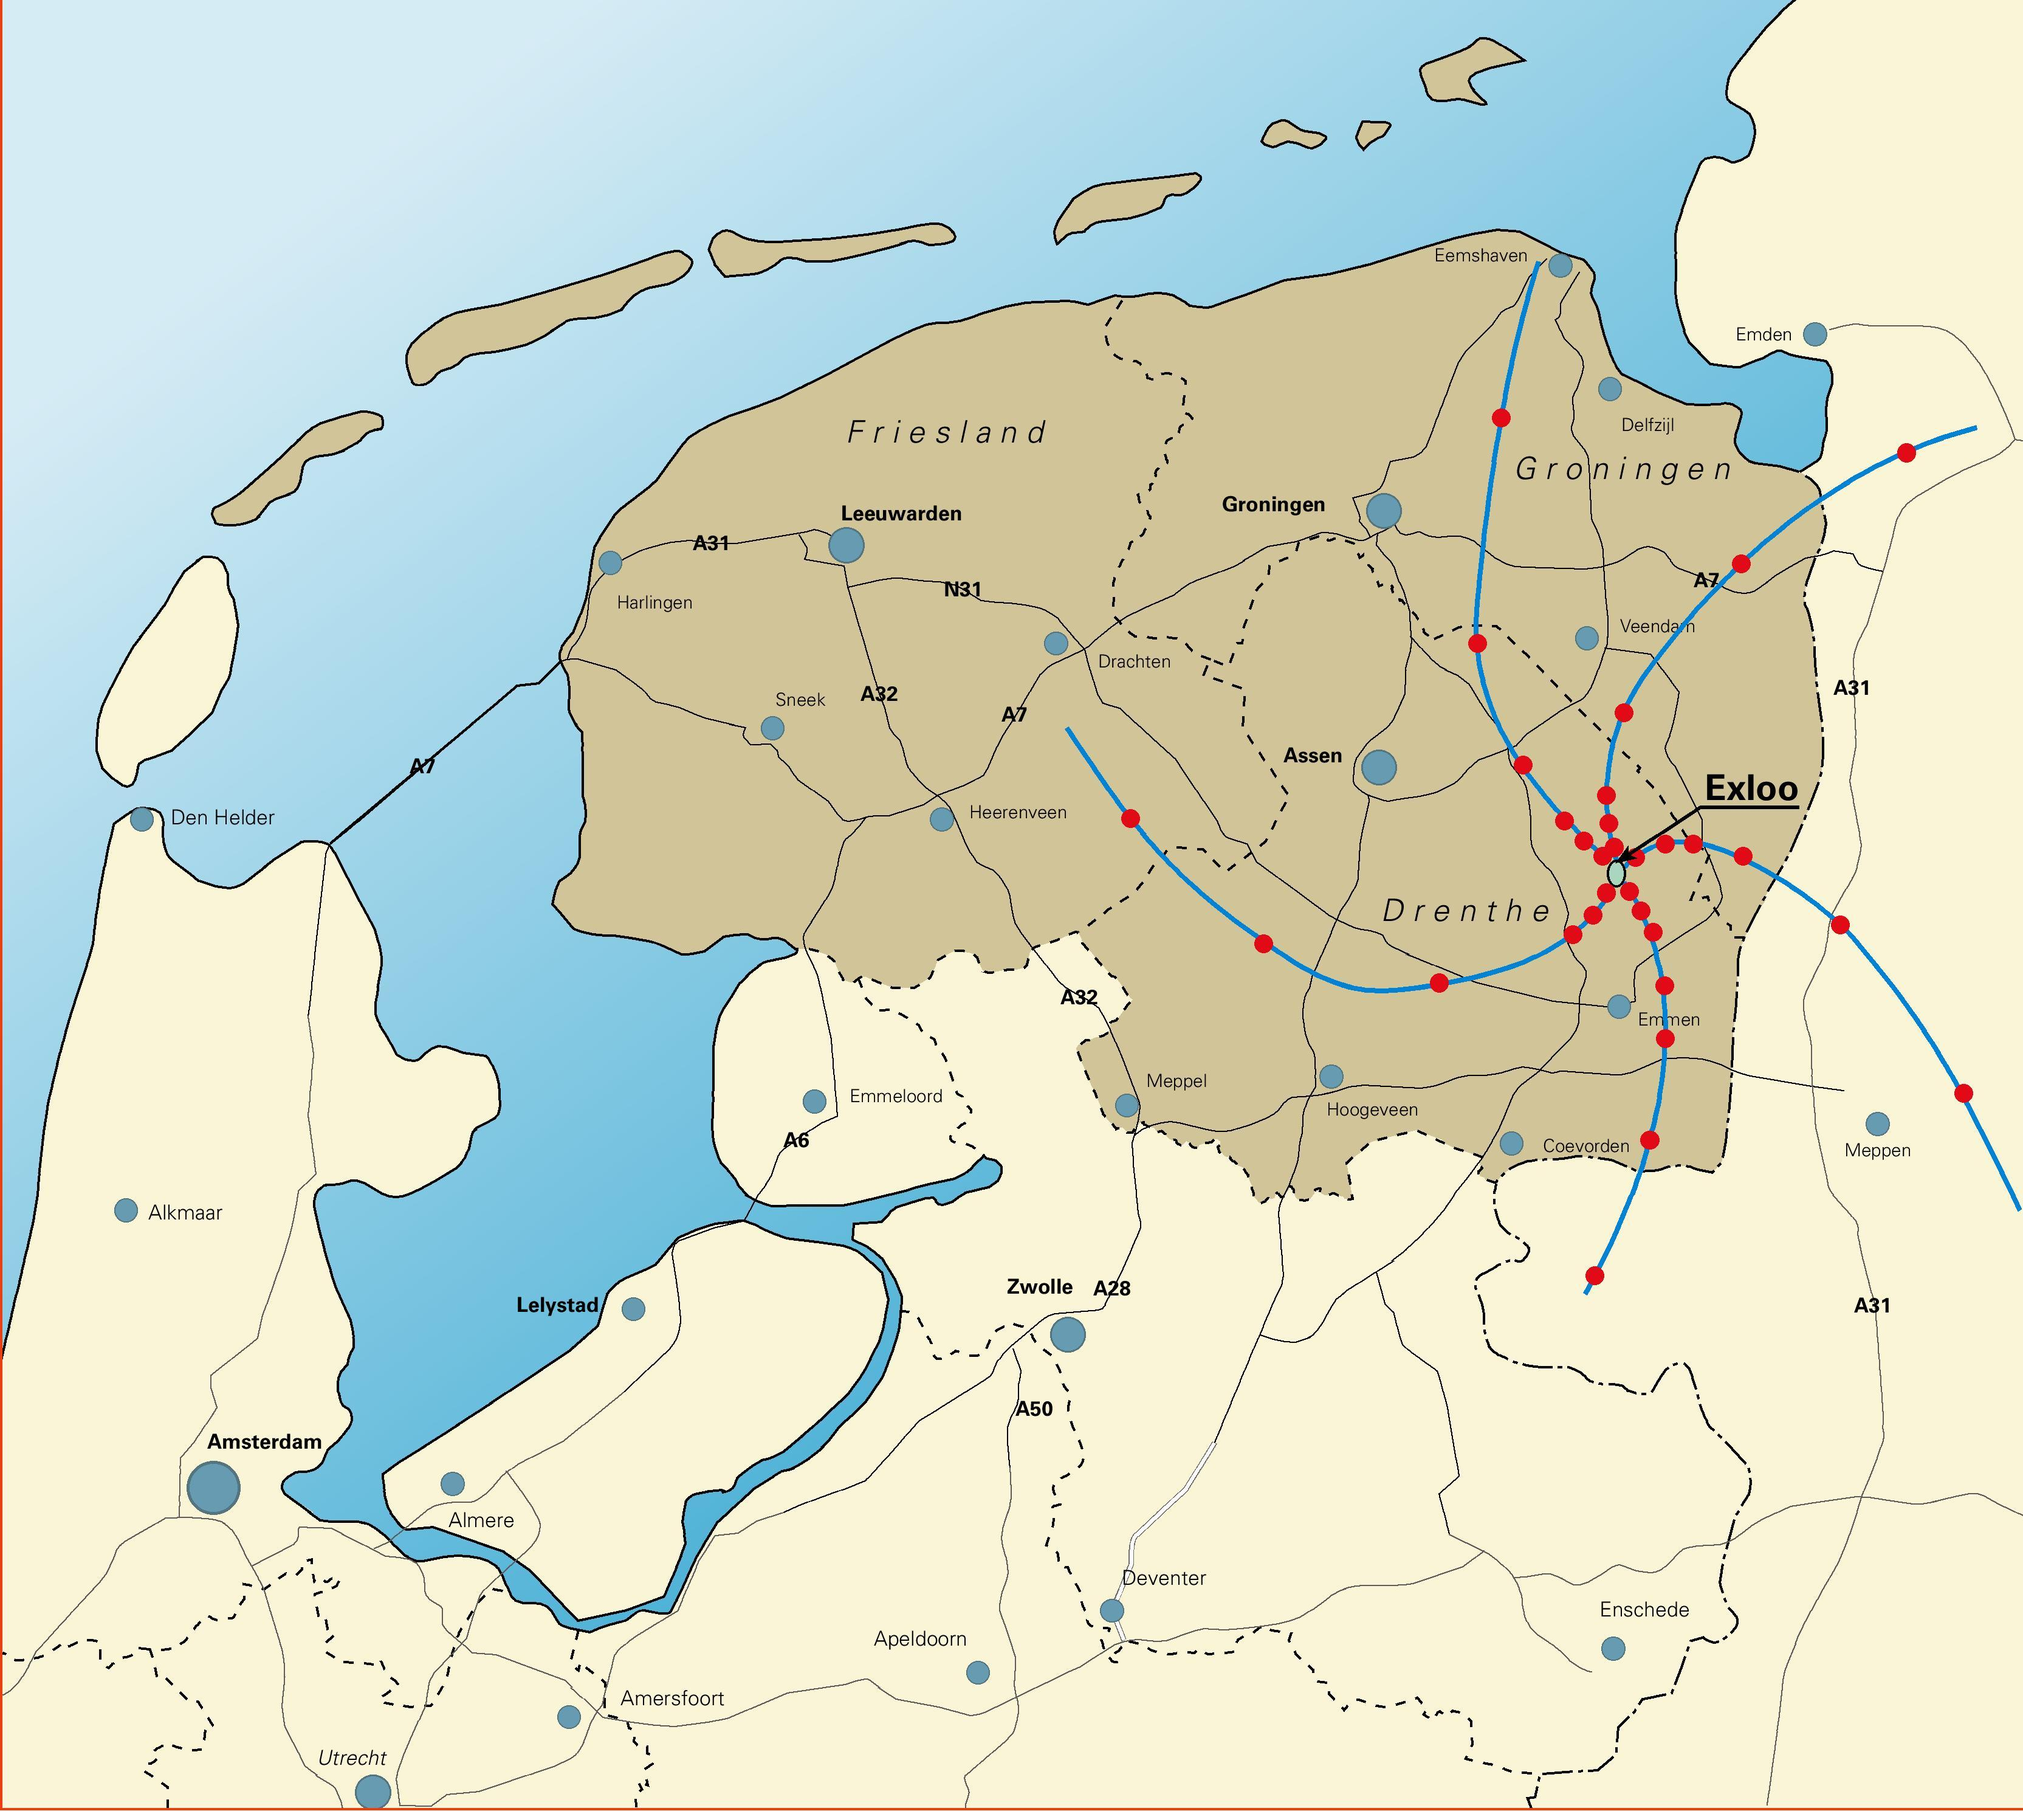
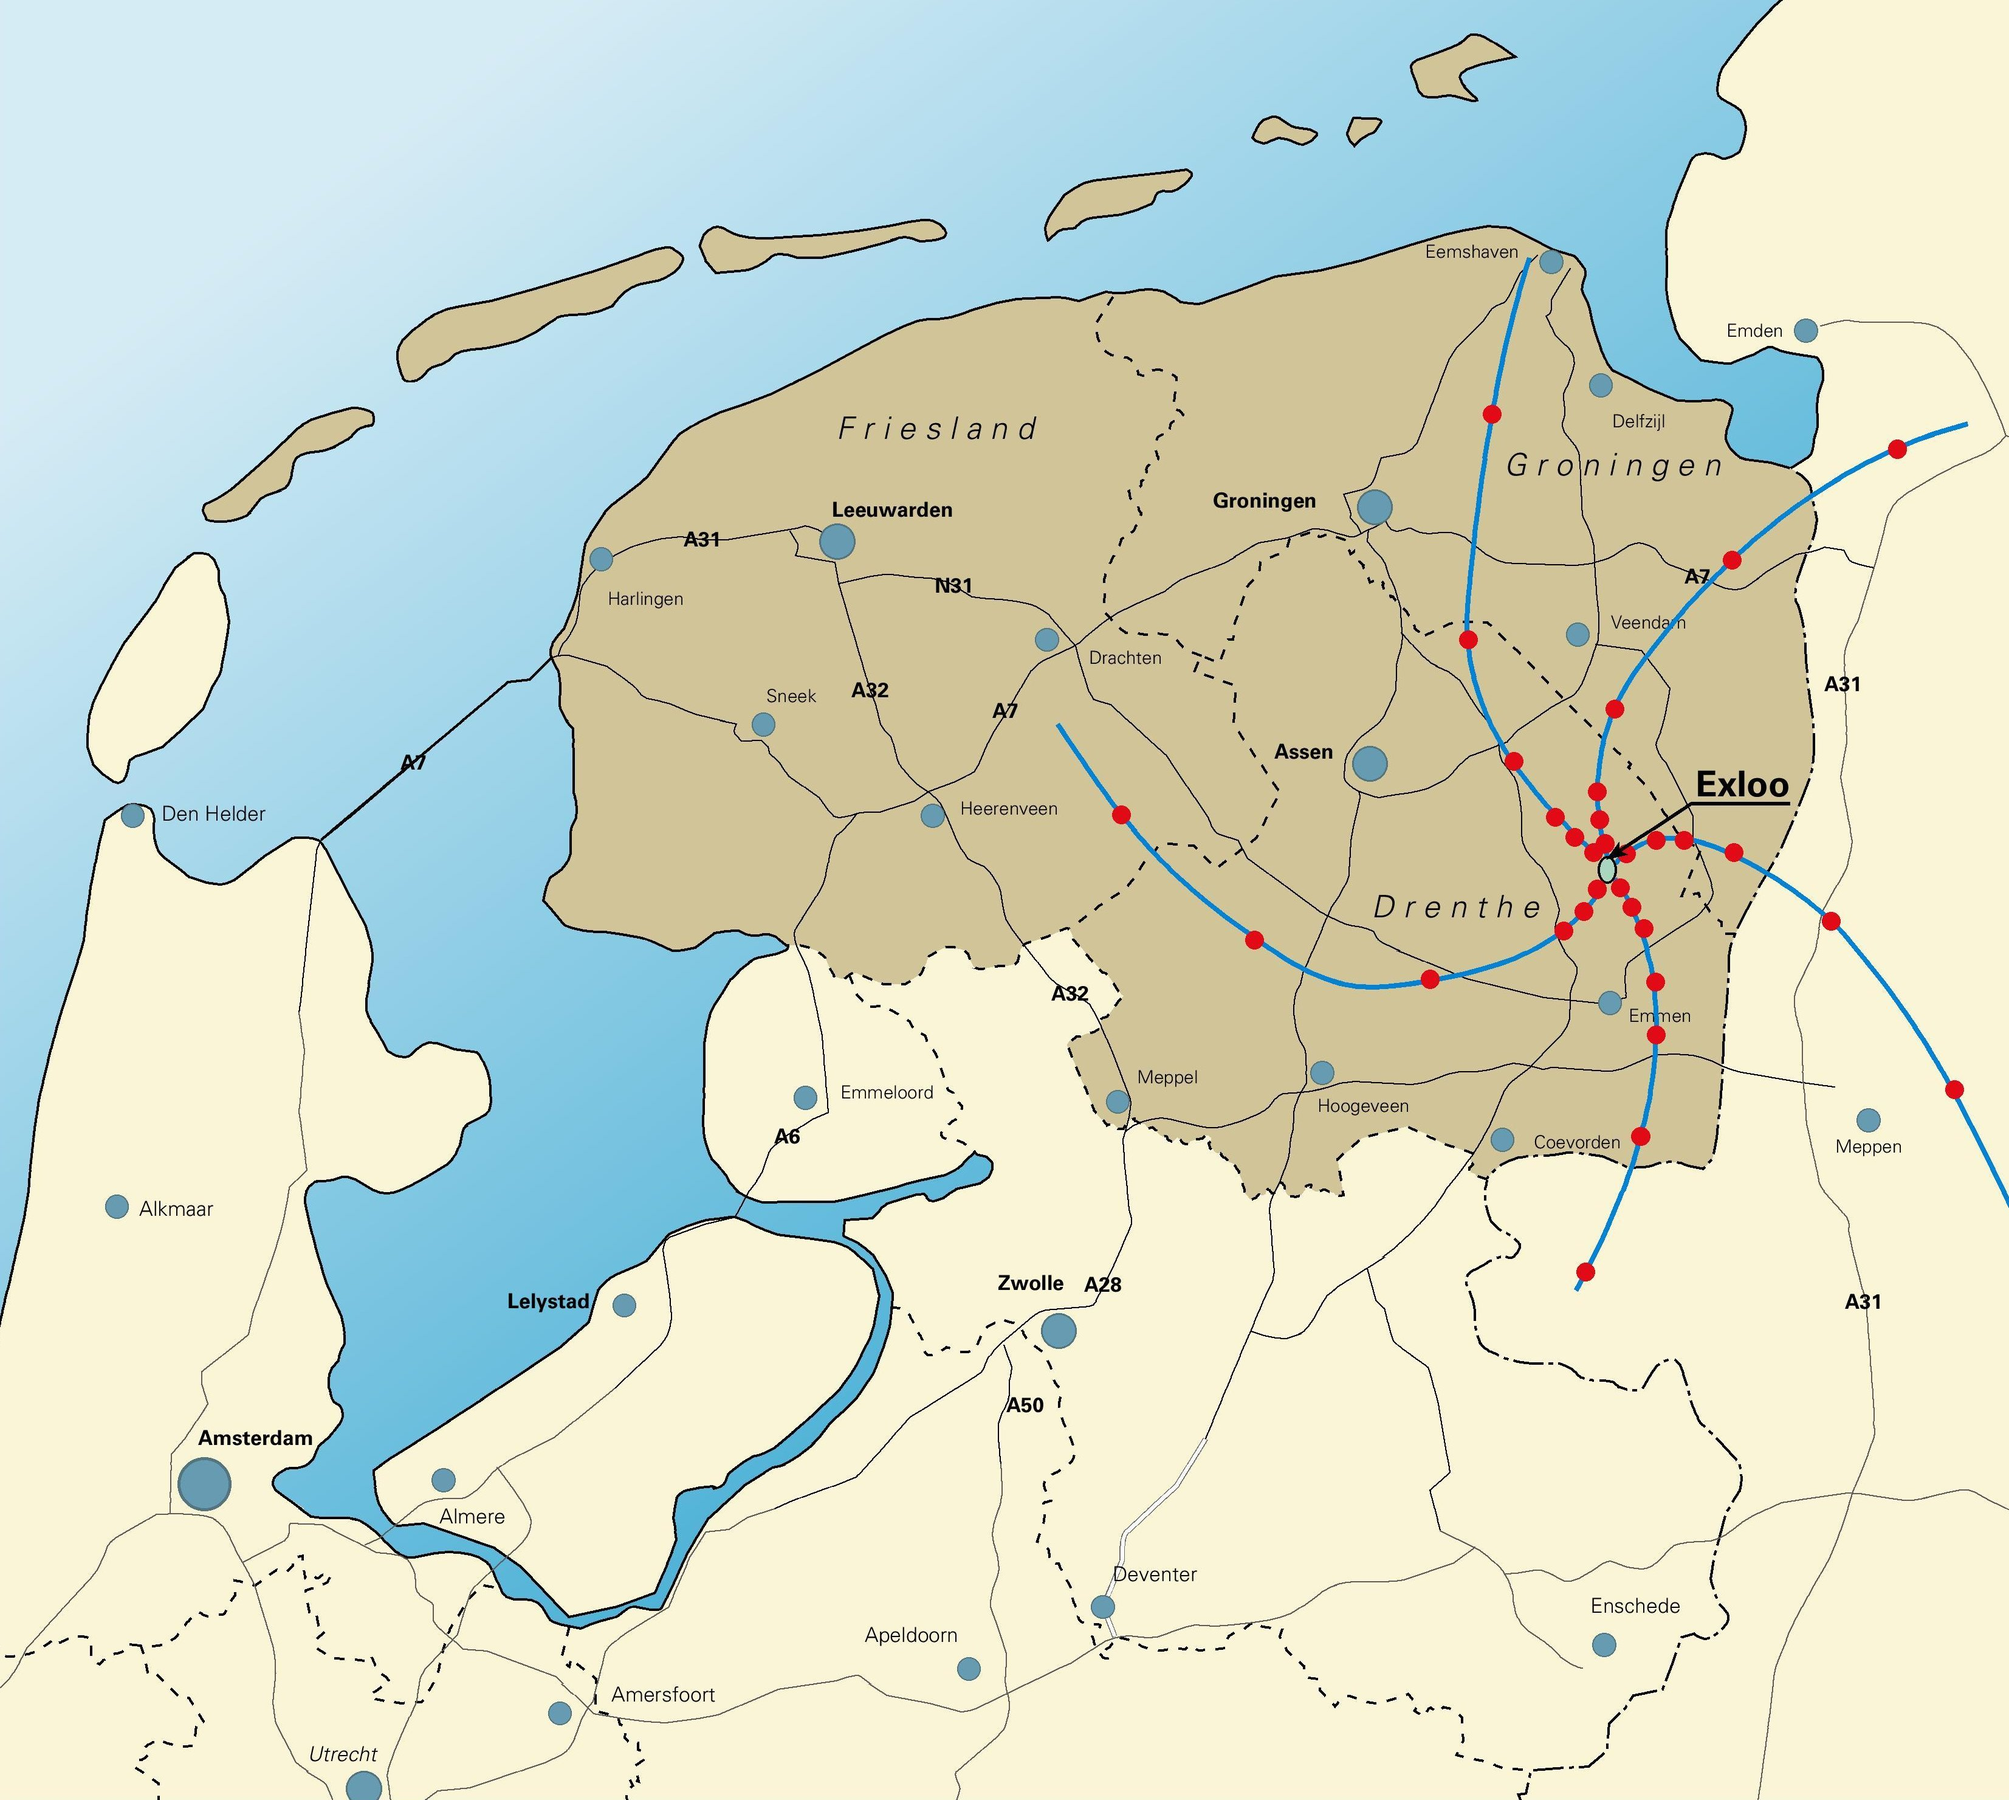
Bug 1198: working on figures

diff --git a/doc/papers/2009/SC-09/lofar.tex b/doc/papers/2009/SC-09/lofar.tex
@@ -153,8 +153,14 @@ computational requirements. Therefore, multiple antennas are grouped
 to form a \emph{station}. Within a station, the information of all
 individual antennas is weighted and summed.
 
+\begin{figure}[ht]
+\includegraphics[width=\columnwidth]{map.jpg}
+\caption{Possible LOFAR layout.}
+\label{fig:map}
+\end{figure}
+
 Geographically, LOFAR consists of a compact core area and a number of
-remote stations.  The heart of LOFAR will be installed in the Northern
+remote stations (See Figure~\ref{fig:map}).  The heart of LOFAR will be installed in the Northern
 part of the Netherlands.  The stations are distributed along 5
 log-spiral arms with a diameter of approximately 360 km. The station
 fields are centrally condensed, following a logarithmic distribution.
